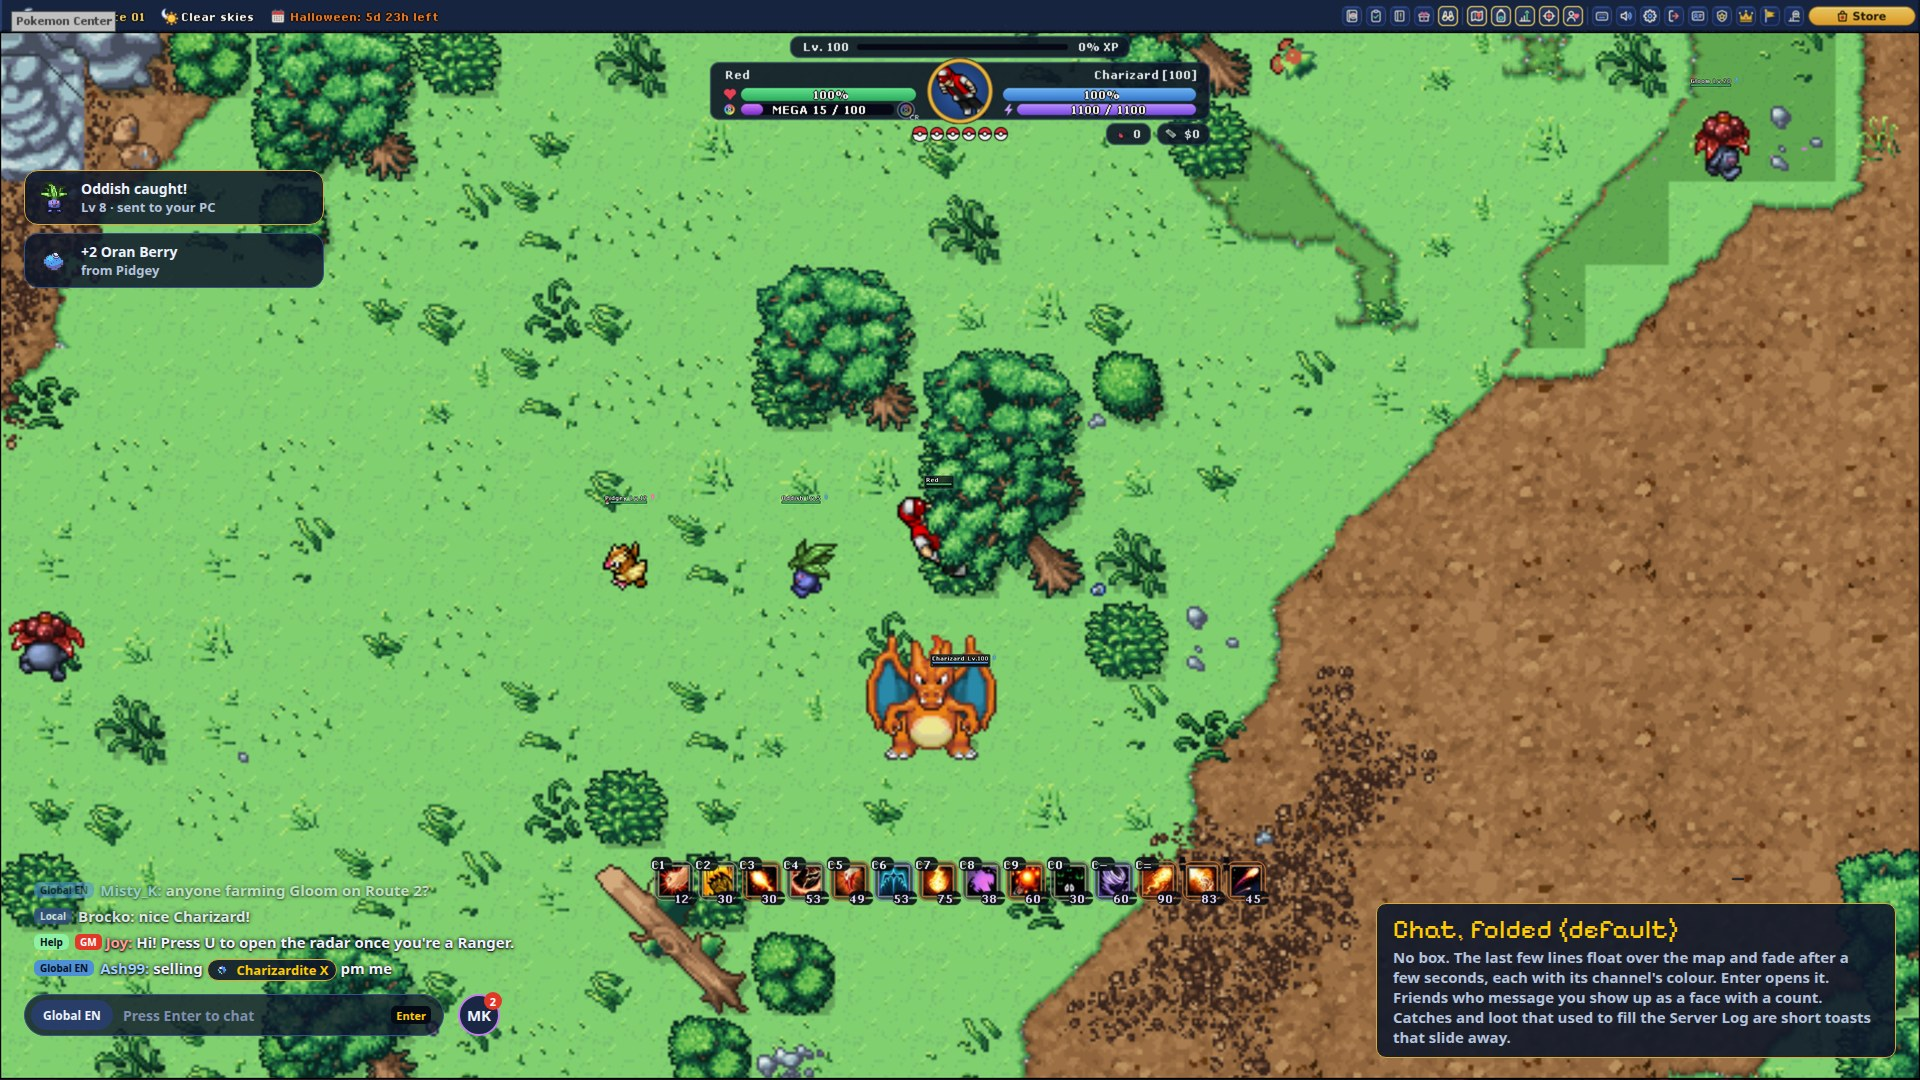
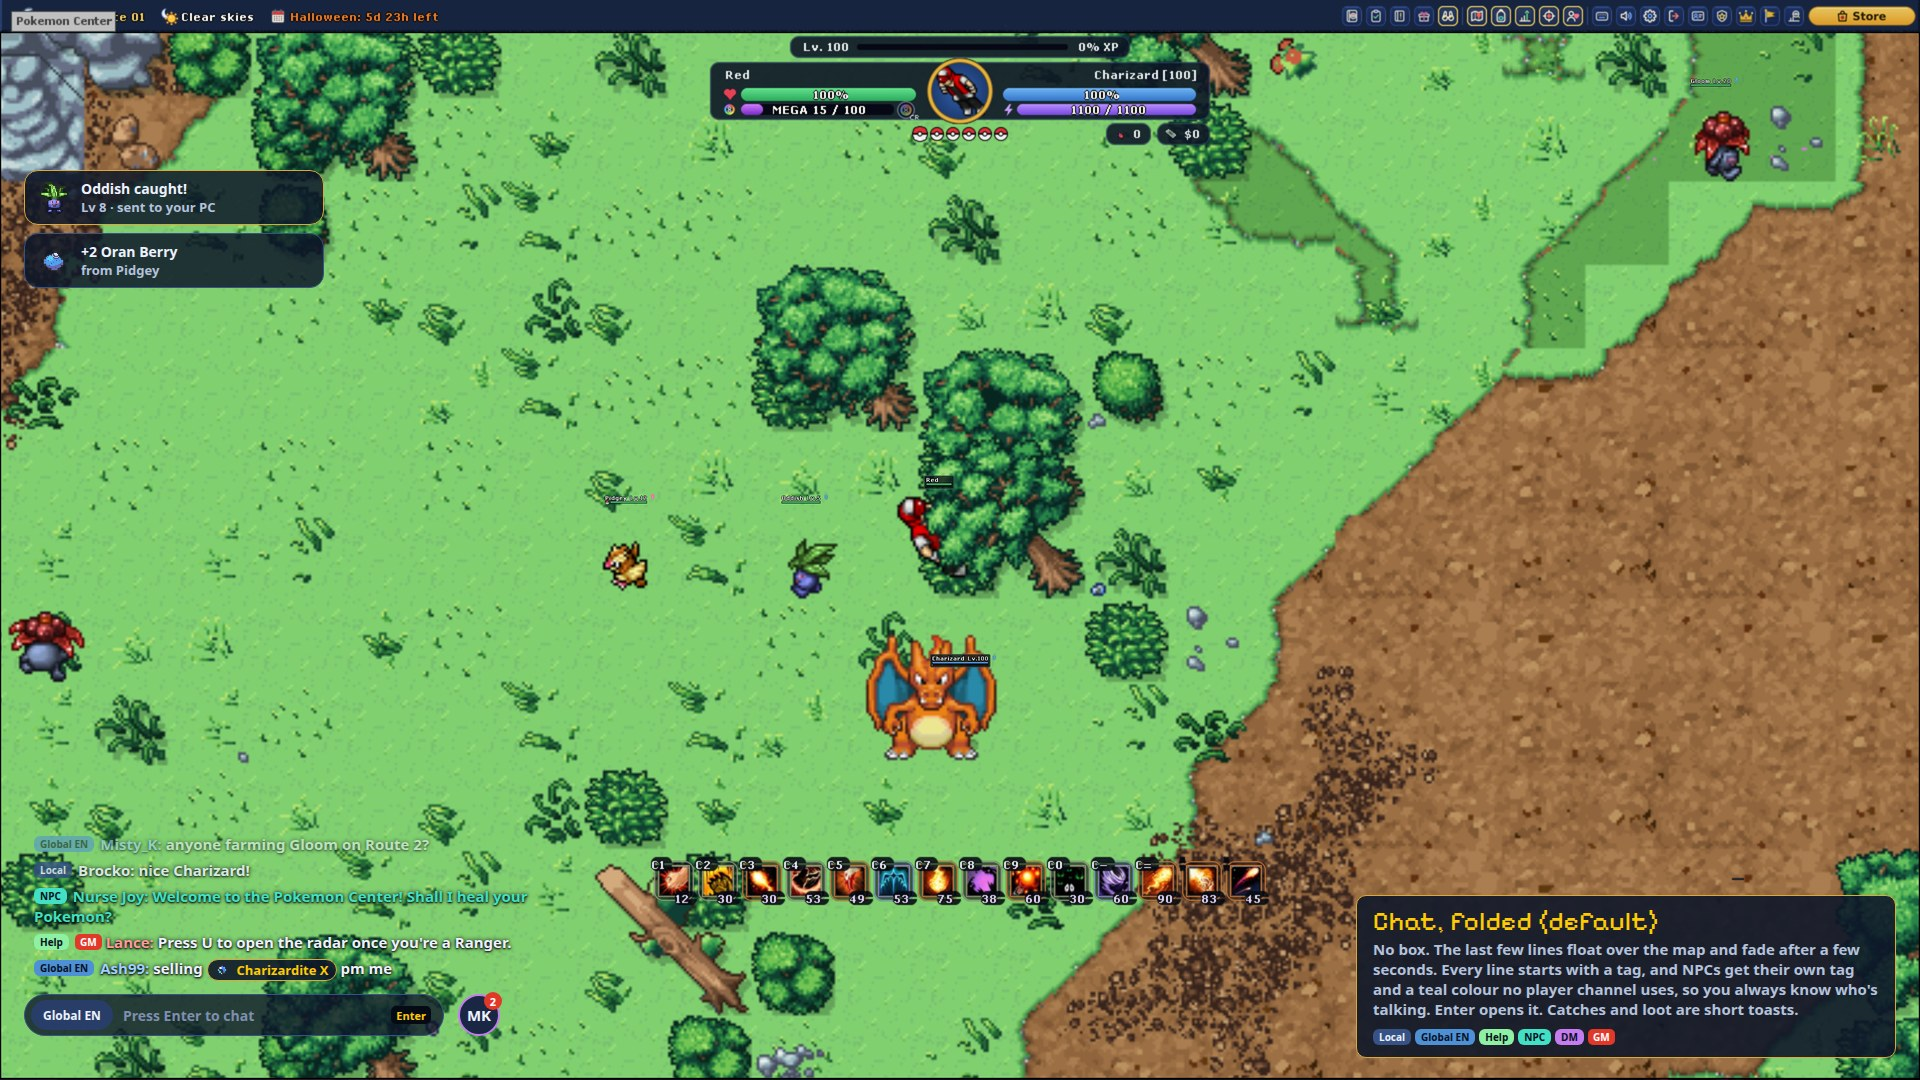
Side panel concepts: Pokegear layout, NPC chat colour, swap bar slot 1, key chips

Changed region(s): [[0.6875, 0.825, 1.0, 0.9778], [0.0, 0.7639, 0.2812, 0.8861]]

diff --git a/docs/concepts/side-panel/README.md b/docs/concepts/side-panel/README.md
@@ -87,45 +87,77 @@ Coordinates move to a tooltip on the map (or the staff view). Level and experien
   the most Tibia part. Then the map frame, then the app buttons, then Nearby.
 - **Android.** All three fit on a phone. C needs the least change there.
 
-## The rest of the screen
+## Picked so far
 
-These work with any of the three directions.
+- **Pokegear (B)** for the map and the Bag.
+- **The swap bar stays**, with its first slot redesigned (see Equipment).
+- **Nearby** is its own window, separate from your Pokemon, and keeps the Battle List's filters.
+- **Every window can be dragged.**
+- **Default keys:** E Order, F key item, X Pokedex, R Mega Evolution.
 
 | | |
 | --- | --- |
+| Pokegear, all together | ![Pokegear layout](pokegear-layout.jpg) |
 | Chat, folded | ![Chat folded](chat-folded.jpg) |
 | Chat, open | ![Chat open](chat-open.jpg) |
 | Equipment | ![Equipment](equipment.jpg) |
-| Team + Nearby | ![Team and Nearby](party-merged.jpg) |
 | Top bar | ![Top bar](topbar.jpg) |
 
+**Pokegear, all together.** The ring map with its app buttons, Nearby and the Bag are separate windows.
+- Drag a window by its header; the hub has a tab under the ring for this. Windows snap to the
+  screen edges and to each other.
+- The layout is saved per character. Lock windows and Reset layout go in the gear menu.
+- **Nearby** keeps the PokeVerse Battle List's filters and sorts:
+  - filters: Wild, Trainers, NPCs, Party (`hideMonsters`, `hidePlayers`, `hideNPCs`, `hideParty`);
+  - sorts: distance, HP, name, level;
+  - Ctrl+B still toggles it.
+- **The Bag** is the Pokegear bag: All plus the PC's and the GTS's pockets on the rail, a list, and the
+  selected item's description.
+
 **Chat.** No docked box with tabs along the bottom.
-- Folded, which is the default: the last few lines float over the bottom left of the map and fade
-  after a few seconds. Each line starts with its channel's colour tag. An input pill shows the
-  channel and "Press Enter to chat". A friend who messages you shows up as a face with a count.
-- Open: a rounded card. Channels are chips (Local, Global EN, Help, NPCs, and + to join more).
-  DMs are faces on the right of the header. Shift-click an item or a Pokemon to put a link chip in
-  the message. Staff get a badge.
-- The Server Log turns into toasts that slide away (catches, loot), plus an Activity list behind a
+- **Folded (the default).**
+  - The last few lines float over the bottom left of the map and fade after a few seconds. Each line
+    starts with its channel's tag.
+  - An input pill shows the channel and "Press Enter to chat".
+  - A friend who messages you shows up as a face with a count.
+- **Open.**
+  - A rounded card. Channels are chips: Local, Global EN, Help, NPCs, and + to join more.
+  - DMs are faces on the right of the header.
+  - Shift-click an item or a Pokemon to put a link chip in the message. Staff get a badge.
+- **NPCs** get an NPC tag and their own colour, teal (#42e0c4), which no player channel uses. NPC lines
+  stay apart from players even in Local. The colours:
+
+  | Channel | Colour |
+  | --- | --- |
+  | Local | White |
+  | Global | Blue |
+  | Help | Green |
+  | NPC | Teal |
+  | DM | Purple |
+  | You | Gold |
+  | Staff | Red badge |
+
+- **The Server Log** turns into toasts that slide away (catches, loot), plus an Activity list behind a
   bell in the top bar.
 
 **Equipment.** There is no equipment window. Each slot moves to where it is used:
 
 | Slot today | Goes to |
 | --- | --- |
-| Pokemon (the one that's out) | The HUD portrait and its ball row; click a ball to call or recall |
-| Key item | A Key Item socket by the HUD: click to use, right-click to pick another key item. The Ranger radar and the Fishing guide go here too |
-| Order (helmet) | A round button next to the moves bar, with its own key |
-| Pokedex (sword) | The Dex app, and a key item you can socket for use-with |
+| Pokemon (the one that's out) | Slot 1 of the swap bar: big, with its portrait, name, level and HP. Swapping puts the new one in slot 1 and sends the old one back to its slot, so no slot sits empty |
+| Order (helmet) | A button on slot 1, since it commands that Pokemon (E) |
+| Key item | A socket left of the HUD (F): click to use, right-click to pick another key item. The Ranger radar and the Fishing guide go here too |
+| Pokedex (sword) | Its own socket right of the HUD (X). Not a key item |
 | Badges (shield), Balls, Respect | The Trainer card |
-| Belt | The swap bar |
-| Bag | The Bag app |
+| Bag | The Bag |
 | Evolve, Duel | Unused, so they go |
 
-**Team + Nearby.** The swap bar moves to the right side and becomes the team list, so the left edge
-is free. Each Pokemon shows an HP ring, level, type, its F1-F6 key, gold when it's out and grey when
-it has fainted. Nearby sits right under it, with a red ring on the target and a Poke Ball when you've
-caught that species before. A shows it in the Party app, B as these capsules, C folds it into the pill.
+**Key chips show the key that is bound now, not the default.**
+- Each chip reads `Keybind.getKeybindKeys(category, action)`, which uses the current preset and chat
+  mode.
+- With chat on, letter keys are unbound, so their chips hide.
+- `keybind.lua` has no event when a key changes. `setPrimaryActionKey`, `setSecondaryActionKey`,
+  `selectPreset` and `setChatMode` need to send one, so the chips can refresh.
 
 **Top bar.** The buttons in the top-right row, left to right, in the groups that
 `sortTopBar` (patches/game_mainpanel.patch) puts them in:
@@ -146,9 +178,7 @@ bell, the gear and the Store on the right.
 
 ## To decide
 
-1. Which direction, or which mix. For example: B's ring map and Nearby, with C's drawers for the Bag.
-2. Bag as a list (A, B) or a tile grid (C).
-3. Whether Nearby shows only wild Pokemon, or trainers and NPCs too.
-4. Whether items like the Mega Ring, rods, the Pokedex and the Badge Case get a Key Items tab.
-   Today they fall under Other in the PC and the GTS too. The Key Item socket argues for one.
-5. Whether the chat starts folded or open for new players.
+1. Bag as a list (as drawn) or a tile grid.
+2. Whether items like the Mega Ring, rods and the Badge Case get a Key Items tab in the Bag, the PC
+   and the GTS. Today they fall under Other. The Key Item socket argues for one.
+3. Whether the chat starts folded or open for new players.
